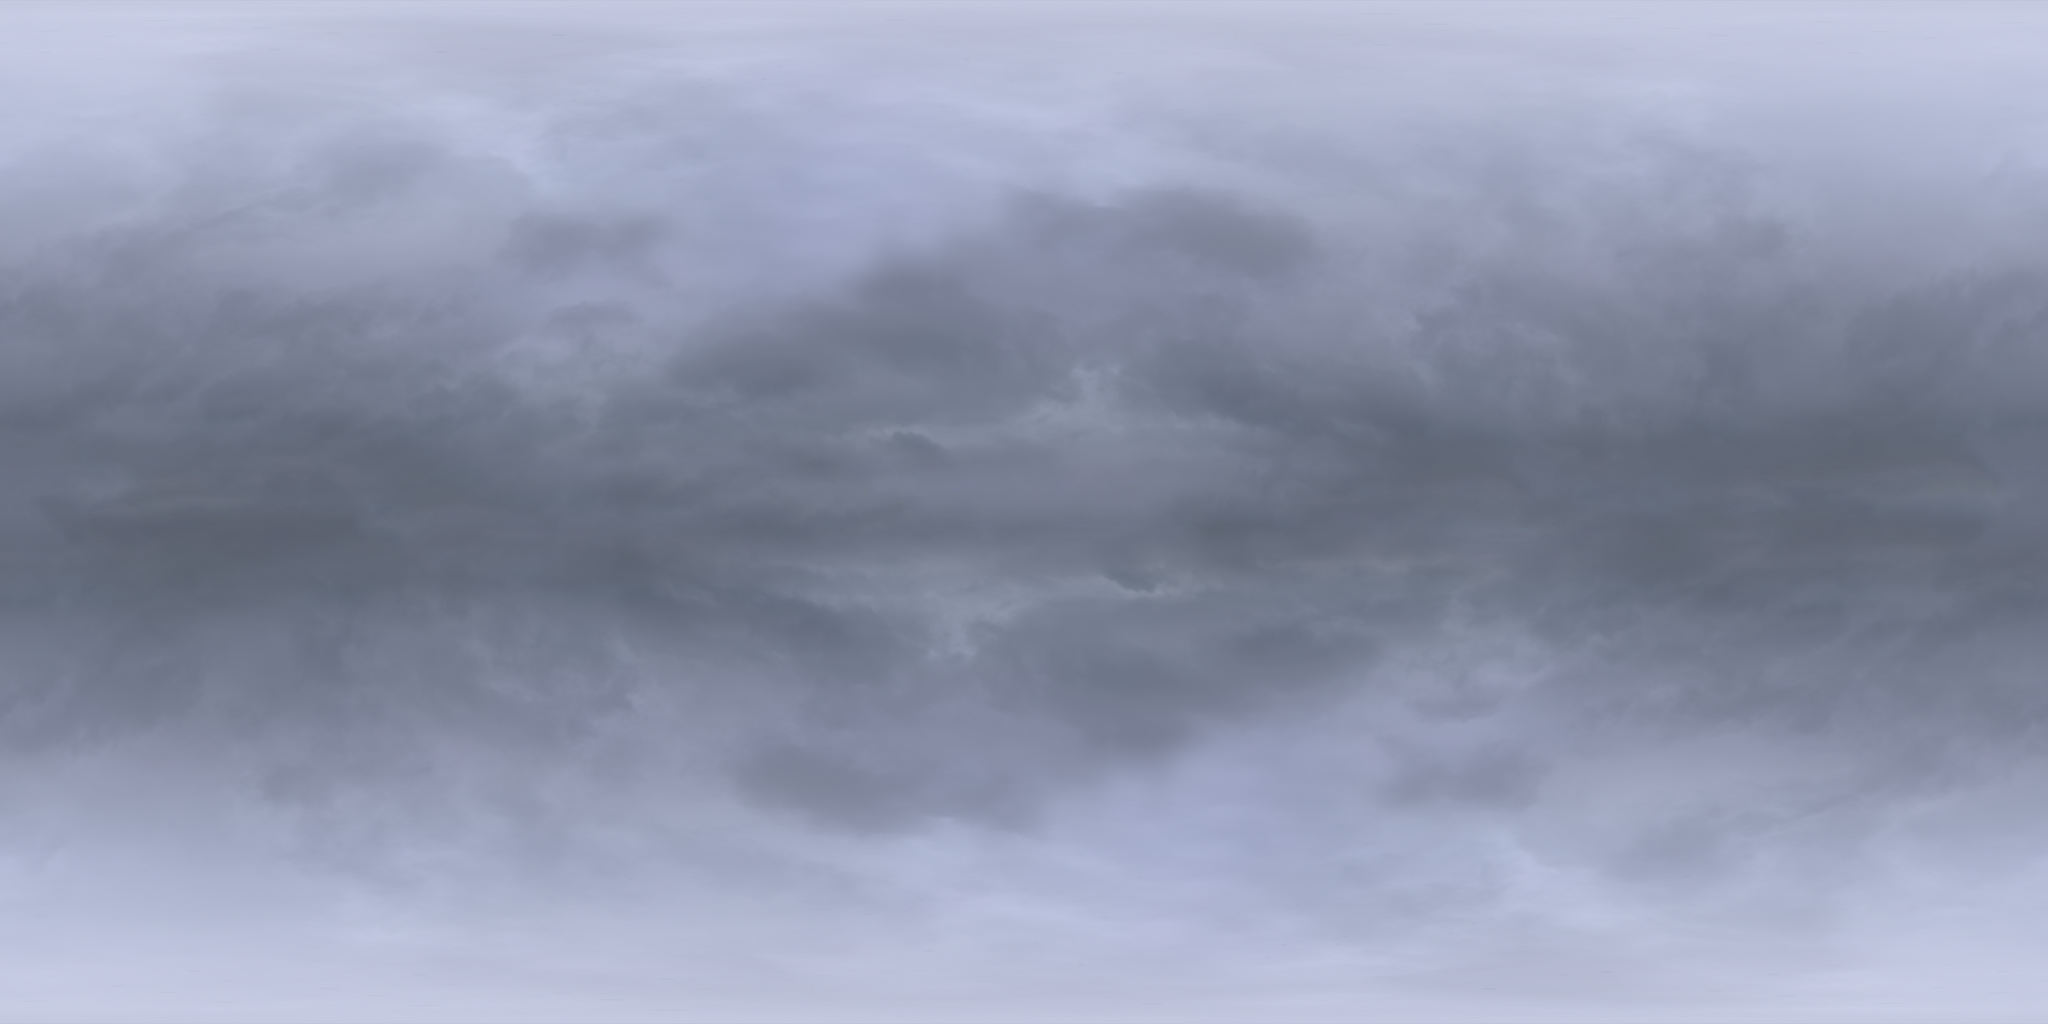
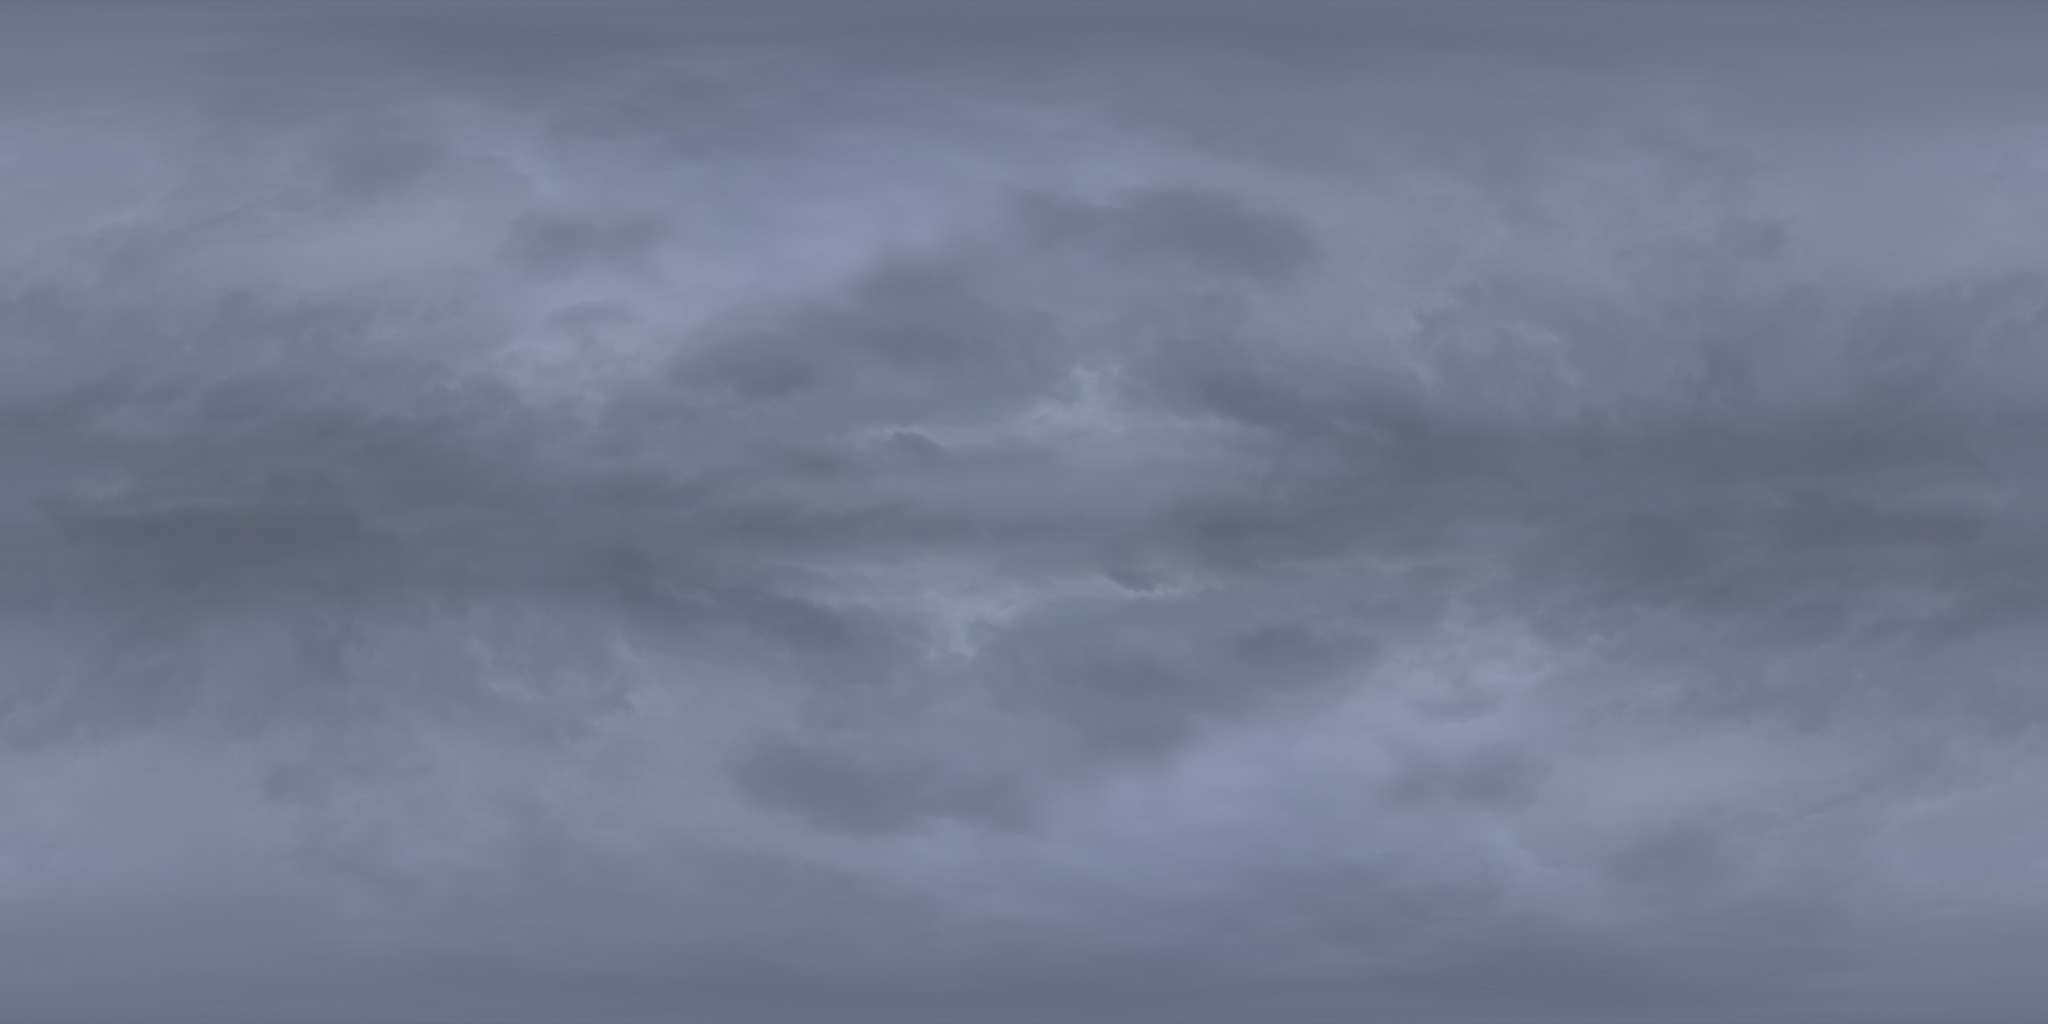
Slowly rotate clouds, tweak clouds color

diff --git a/code/Game/GameTimeManager.cs b/code/Game/GameTimeManager.cs
@@ -2,15 +2,15 @@ namespace Sauna.Game;
 
 public class GameTimeManager : Component, Component.ExecuteInEditor
 {
-	[Property] [Category( "Components" )] public DirectionalLight Sun { get; set; }
+	[Property][Category( "Components" )] public DirectionalLight Sun { get; set; }
 
-	[Property] [Category( "Components" )] public SkyBox2D Skybox { get; set; }
+	[Property][Category( "Components" )] public SkyBox2D Skybox { get; set; }
 
-	[Property] [Category( "Components" )] public GradientFog Fog { get; set; }
+	[Property][Category( "Components" )] public GradientFog Fog { get; set; }
 
-	[Property] [Category( "Visuals" )] public Gradient SkyDayColor { get; set; }
+	[Property][Category( "Visuals" )] public Gradient SkyDayColor { get; set; }
 
-	[Property] [Category( "Visuals" )] public Color SkyNightColor { get; set; }
+	[Property][Category( "Visuals" )] public Color SkyNightColor { get; set; }
 
 	/// <summary>
 	/// Imagine it like the angle of a big pole sticking out of the Earth, and the Sun is spinning around it.
@@ -19,6 +19,13 @@ public class GameTimeManager : Component, Component.ExecuteInEditor
 	[Property]
 	[Category( "Visuals" )]
 	public Angles SunOrbit { get; set; }
+
+	/// <summary>
+	/// How fast the skybox (clouds) rotate along each axis
+	/// </summary>
+	[Property]
+	[Category( "Visuals" )]
+	public Angles CloudSpeed { get; set; }
 
 	/// <summary>
 	/// Time of the sunrise in in-game seconds (7 AM by default)
@@ -82,6 +89,7 @@ public class GameTimeManager : Component, Component.ExecuteInEditor
 
 	[HostSync] private TimeSince InGameTime { get; set; }
 	[HostSync] private float? FrozenTime { get; set; }
+	private Angles _cloudAngle = new();
 
 	protected override void OnAwake()
 	{
@@ -112,6 +120,12 @@ public class GameTimeManager : Component, Component.ExecuteInEditor
 		if ( Scene.IsEditor && !GameManager.IsPlaying )
 		{
 			SetTimeFromSeconds( StartTime );
+		}
+
+		if ( Skybox != null )
+		{
+			_cloudAngle += CloudSpeed * Time.Delta;
+			Skybox.Transform.Rotation = _cloudAngle;
 		}
 
 		var igs = InGameSeconds;
@@ -152,7 +166,7 @@ public class GameTimeManager : Component, Component.ExecuteInEditor
 				Fog.Color = SkyDayColor.Evaluate( daytimePercent );
 
 			if ( Skybox != null )
-				Skybox.Tint = SkyDayColor.Evaluate( daytimePercent );
+				Skybox.Tint = SkyDayColor.Evaluate( daytimePercent ) * 2f;
 		}
 		else
 		{
